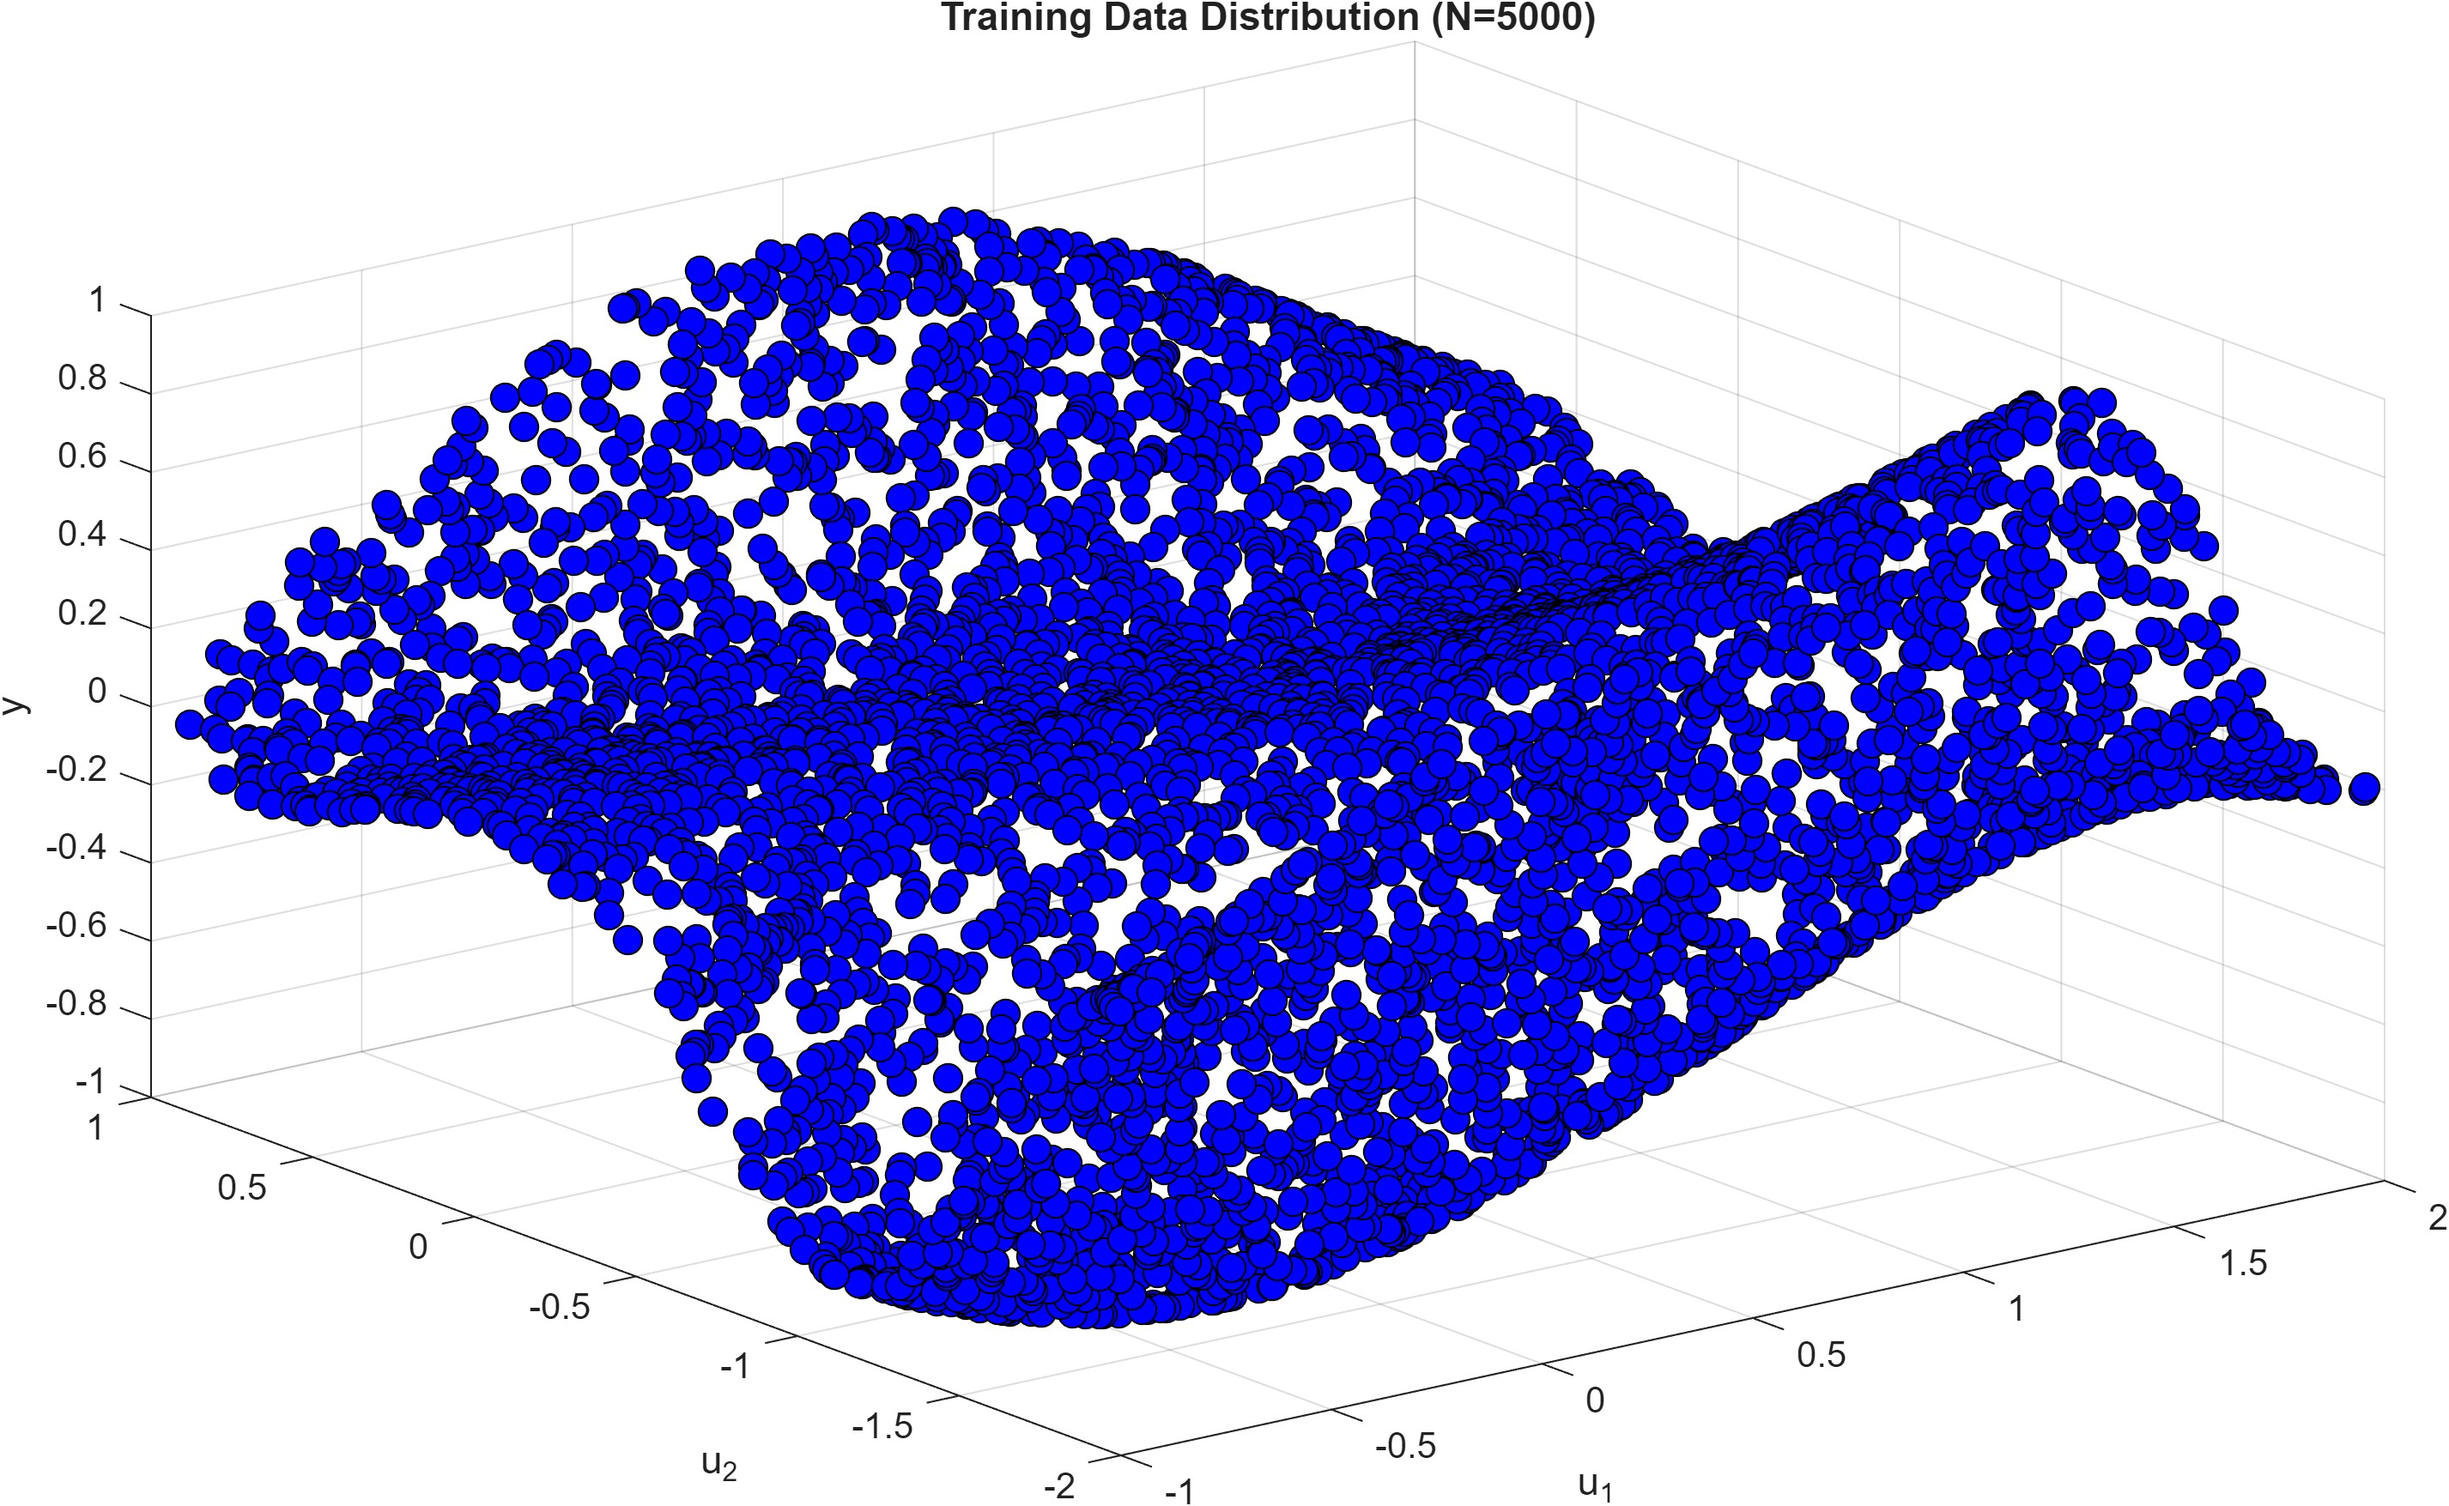
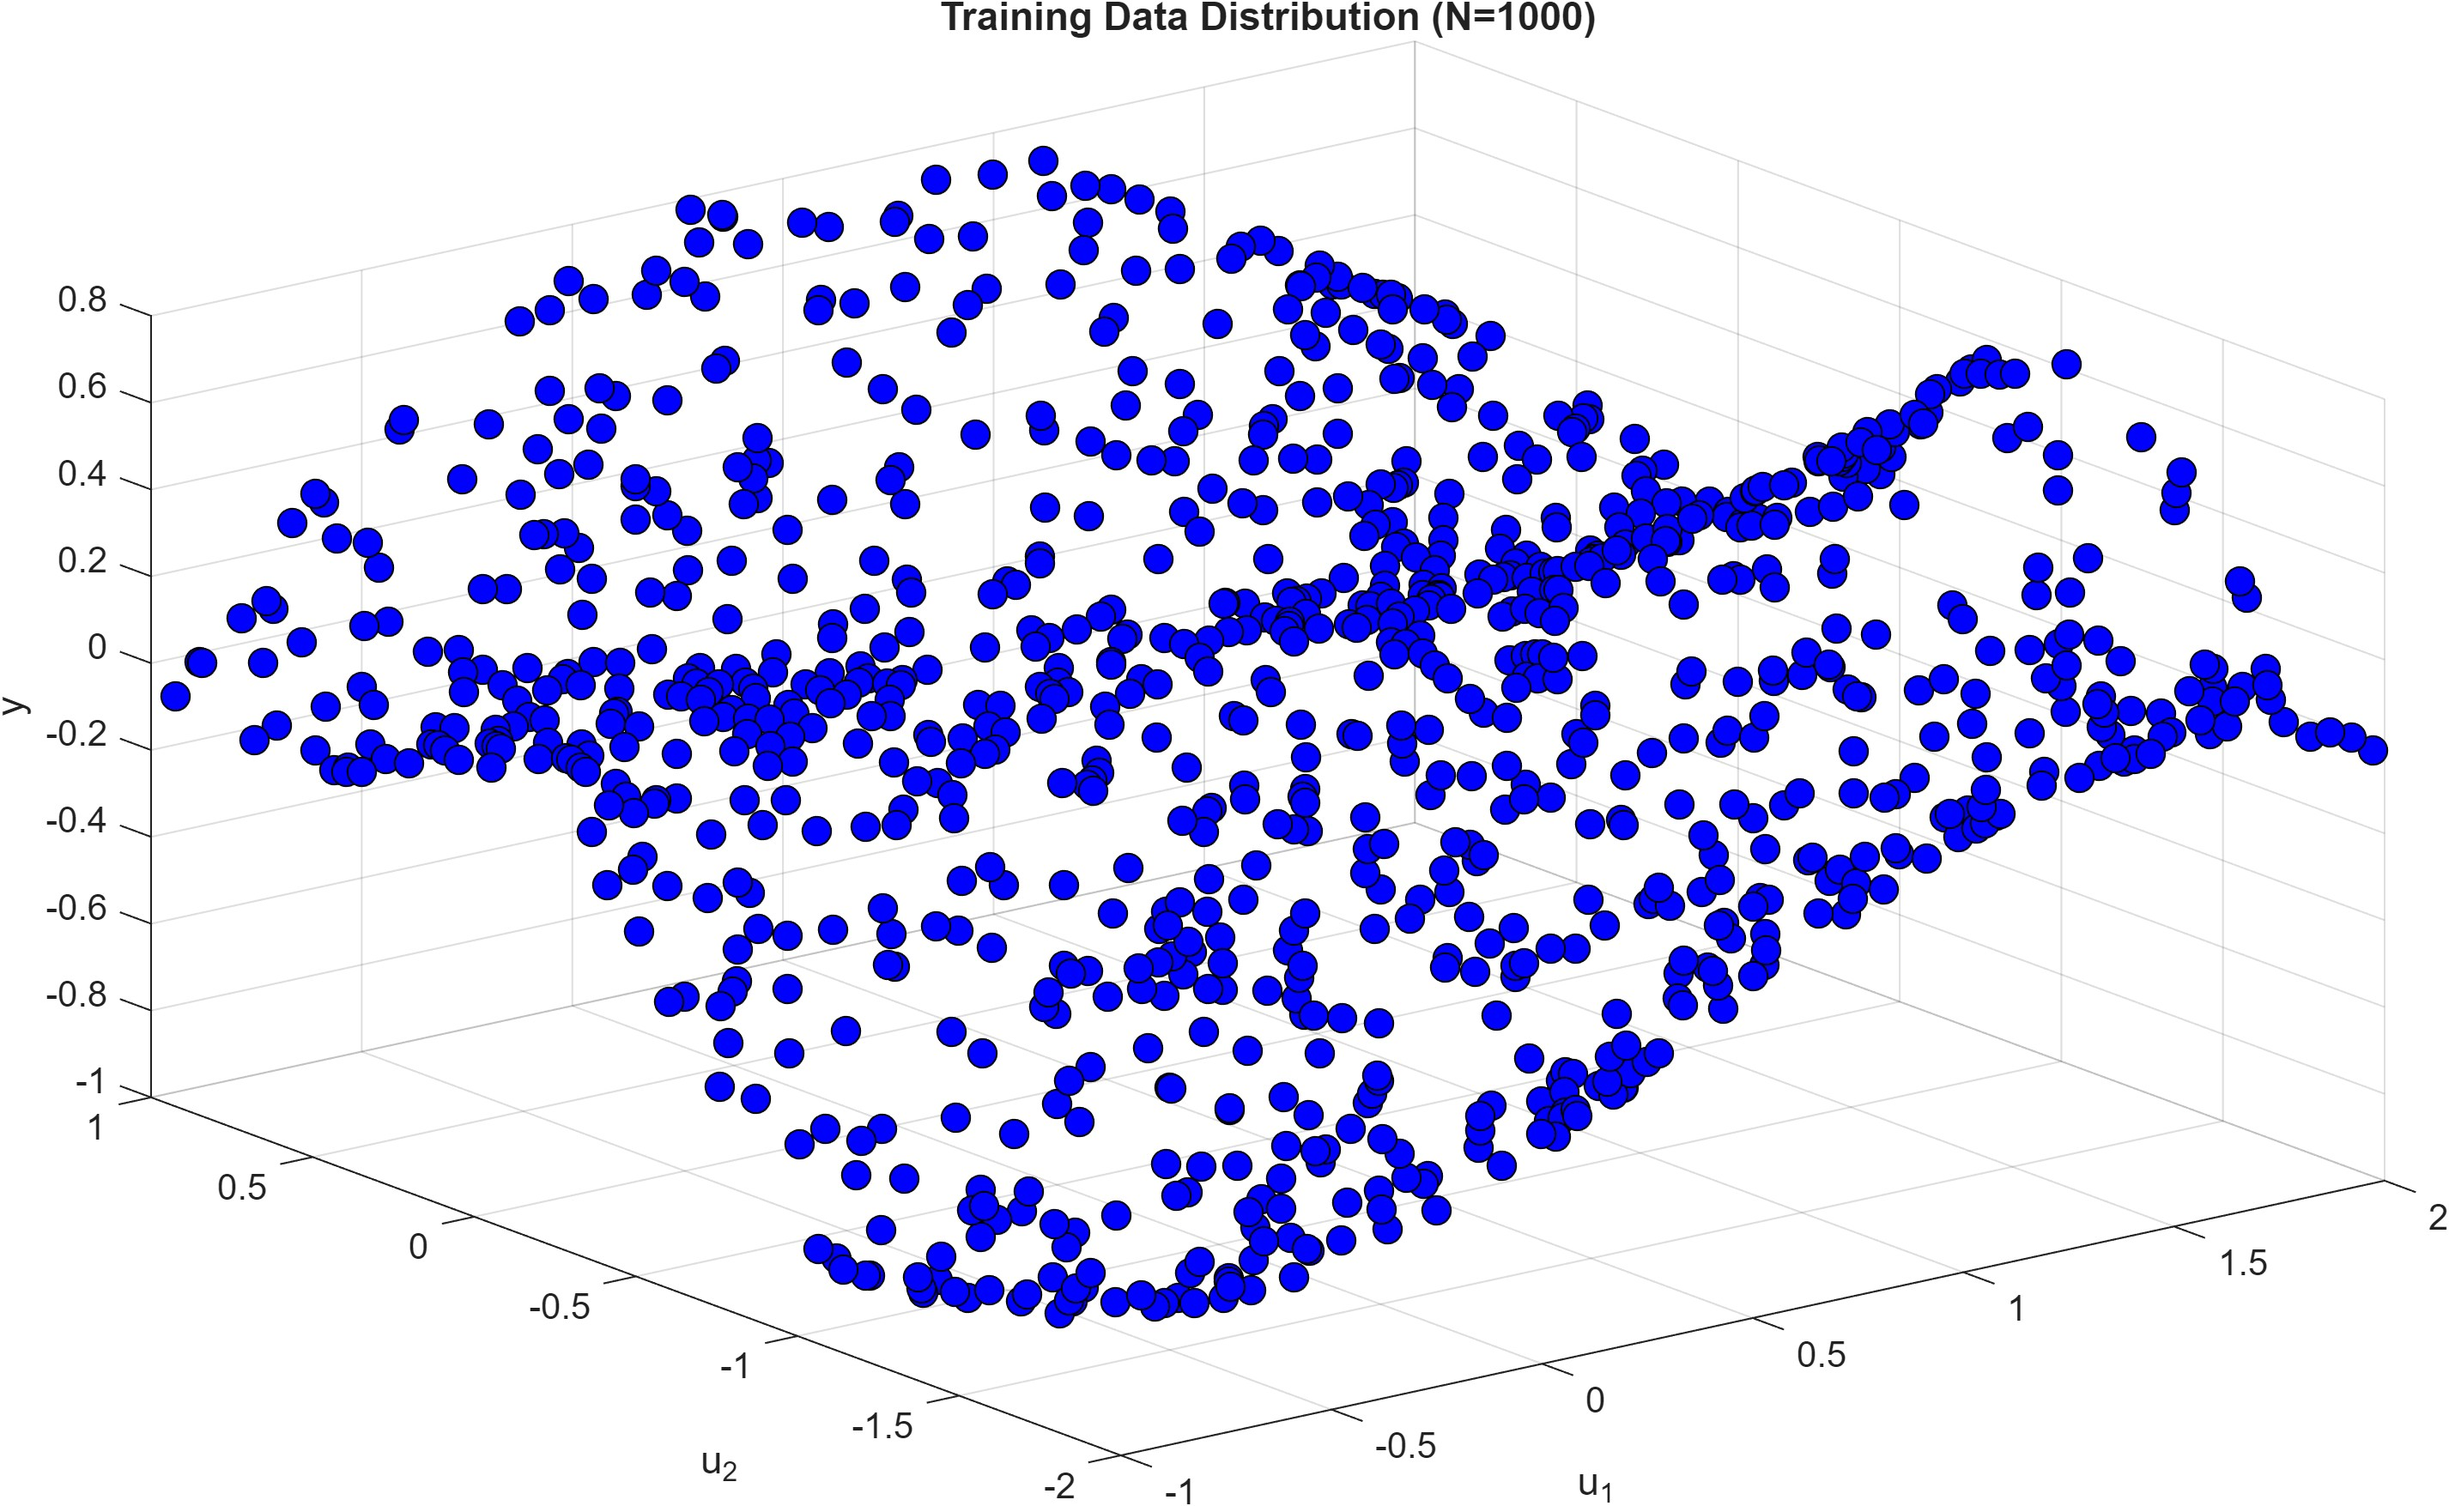
set up report structure

diff --git a/project/report/report.tex b/project/report/report.tex
@@ -1,0 +1,139 @@
+\documentclass[a4paper,12pt]{article}
+
+\usepackage{fontspec}
+\usepackage{microtype}
+\usepackage{polyglossia}
+
+\setmainlanguage{greek}
+\setotherlanguage{english}
+
+\setmainfont{Latin Modern Roman}
+\newfontfamily\greekfont{CMU Serif}[Script=Greek]
+
+\usepackage[a4paper, top=1.5cm, bottom=1.5cm, left=1.5cm, right=1.5cm]{geometry}
+\usepackage{graphicx}
+\usepackage{float}
+\usepackage{array}
+\usepackage{hyperref}
+\hypersetup{
+    colorlinks=true,
+    linkcolor=black,
+    citecolor=black,
+    urlcolor=blue
+}
+\usepackage[super,sort&compress]{cite}
+\usepackage{amsmath}
+\usepackage{algorithm}
+\usepackage{algpseudocode}
+
+\title{Τεχνικές Βελτιστοποίησης: Project}
+\author{Ιωάννης Μιχάλαινας ΑΕΜ:10902}
+\date{Δεκέμβριος 2025}
+
+\begin{document}
+
+\maketitle
+
+\begin{center}
+\textbf{Αποθετήριο Κώδικα:} \\
+\href{https://github.com/ioannisam/optimization-techniques}
+     {github.com/ioannisam/optimization-techniques}
+\end{center}
+
+\bigskip
+
+\begin{abstract}
+    Η παρούσα εργασία πραγματεύεται την προσέγγιση μιας άγνωστης μη γραμμικής συνάρτησης δύο μεταβλητών, $f(u_1, u_2)$, μέσω ενός Γενετικού Αλγορίθμου. Στόχος είναι η εύρεση μιας αναλυτικής έκφρασης που αποτελείται από γραμμικό συνδυασμό Γκαουσιανών συναρτήσεων. Ο αλγόριθμος υλοποιήθηκε εξ ολοκλήρου στο MATLAB, χωρίς τη χρήση έτοιμων εργαλείων βελτιστοποίησης. Η διαδικασία περιλαμβάνει την εκπαίδευση του μοντέλου, την επαλήθευση σε νέα δεδομένα για την αποφυγή υπερπροσαρμογής και τέλος, μια διαδικασία απλοποίησης για τη μείωση της πολυπλοκότητας της τελικής έκφρασης.
+\end{abstract}
+
+\tableofcontents
+\clearpage
+
+\section{Εισαγωγή}
+Στο πλαίσιο της εργασίας, ζητείται η εκτίμηση της συνάρτησης $y=f(u_1, u_2)$ βάσει μετρήσεων εισόδου-εξόδου. Ως μοντέλο προσέγγισης χρησιμοποιείται το άθροισμα $K=15$ Γκαουσιανών όρων της μορφής:
+\begin{equation}
+G(u_1, u_2) = w \cdot e^{-\left(\frac{(u_1-c_1)^2}{2\sigma_1^2} + \frac{(u_2-c_2)^2}{2\sigma_2^2}\right)}
+\end{equation}
+Η πραγματική συνάρτηση που προσπαθούμε να προσεγγίσουμε και που χρησιμοποιήθηκε για την παραγωγή των δεδομένων εκπαίδευσης και επαλήθευσης είναι η: $$f(u_1,u_2)=\sin(u_1+u_2)\sin(u_2^2)$$
+
+\begin{figure}[H]
+    \centering
+    \begin{minipage}{0.48\linewidth}
+        \centering
+        \includegraphics[width=\linewidth]{assets/main_1.jpg}
+        \caption{Οπτικοποίηση της $f(u_1,u_2)$ \\ (100 δείγματα)}
+        \label{fig:visualization1}
+    \end{minipage}
+    \hfill
+    \begin{minipage}{0.48\linewidth}
+        \centering
+        \includegraphics[width=\linewidth]{assets/main_2.jpg}
+        \caption{Οπτικοποίηση της $f(u_1,u_2)$ \\ (5000 δείγματα)}
+        \label{fig:visualization2}
+    \end{minipage}
+\end{figure}
+
+
+\newpage
+\section{Γενετικοί Αλγόριθμοι}
+\subsection{Θεωρία}
+\subsection{Υλοποίηση}
+    \subsubsection{Κωδικοποίηση και Αρχικοποίηση}
+    \subsubsection{Συνάρτηση Αξιολόγησης}
+    \subsubsection{Γενετικοί Τελεστές}
+    \begin{itemize}
+        \item \textbf{Επιλογή (Selection):}
+        \item \textbf{Διασταύρωση (Crossover):}
+        \item \textbf{Μετάλλαξη (Mutation):}
+    \end{itemize}
+
+\newpage
+\section{Αποτελέσματα}
+\subsection{Γραφικές Παραστάσεις}
+
+    \begin{figure}[H]
+        \centering
+        \includegraphics[width=0.9\linewidth]{assets/main_3.jpg}
+        \caption{Σύγκλιση του αλγορίθμου ανά τις γενιές}
+        \label{fig:convergence}
+    \end{figure}
+
+    \begin{figure}[H]
+        \centering
+        \includegraphics[width=0.9\linewidth]{assets/main_4.jpg}
+        \caption{Οπτική σύγκριση της πραγματικής συνάρτησης με την εκτίμηση}
+        \label{fig:comparison}
+    \end{figure}
+\subsection{Παρατηρήσεις}
+
+\newpage
+\appendix
+
+\section{Εργαλεία}
+Τα εργαλεία που χρησιμοποιήθηκαν κατά την εκπόνηση της εργασίας είναι τα εξής:
+\begin{itemize}
+    \item MATLAB
+    \item LaTeX
+    \item Git
+\end{itemize}
+
+\begin{thebibliography}{9}
+
+    \bibitem[\href{https://www.tziola.gr/book/rovi/}{1}]{book}
+    Γ. Ροβιθάκης, \textit{Τεχνικές Βελτιστοποίησης}, Εκδόσεις Τζιόλα, 2007.
+    
+    \bibitem[\href{https://www2.fiit.stuba.sk/~kvasnicka/Free\%20books/Goldberg_Genetic_Algorithms_in_Search.pdf}{2}]{paper}
+    D. E. Goldberg, \textit{Genetic Algorithms in Search, Optimization, and Machine Learning}. Reading, MA: Addison-Wesley, 1989.
+    
+    \bibitem[\href{https://www.mathworks.com/help/gads/what-is-the-genetic-algorithm.html}{3}]{mathworks}
+    MathWorks, What Is the Genetic Algorithm?, \textit{MathWorks Documentation}.
+    
+    \bibitem[\href{https://medium.com/@sanskar4862/how-to-generate-a-genetic-algorithm-with-matlab-6dbc595d54c8}{4}]{medium}
+    S. Sanskar, How to Generate a Genetic Algorithm with MATLAB, \textit{Medium}, Dec. 2024.
+    
+    \bibitem[\href{https://www.generativedesign.org/02-deeper-dive/02-04_genetic-algorithms}{5}]{gendesign}
+    Generative Design, Genetic Algorithms, \textit{Generative Design Library}.
+
+\end{thebibliography}
+
+\end{document}

diff --git a/project/main.m b/project/main.m
@@ -8,7 +8,7 @@ parameters;
 start_logging();
 
 visualize_function(100);
-visualize_function(5000);
+visualize_function(1000);
 
 [U, Y] = generate_data(params.num_samples);
 
